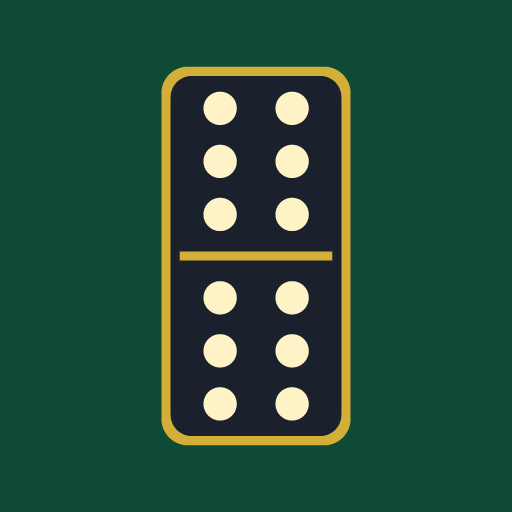
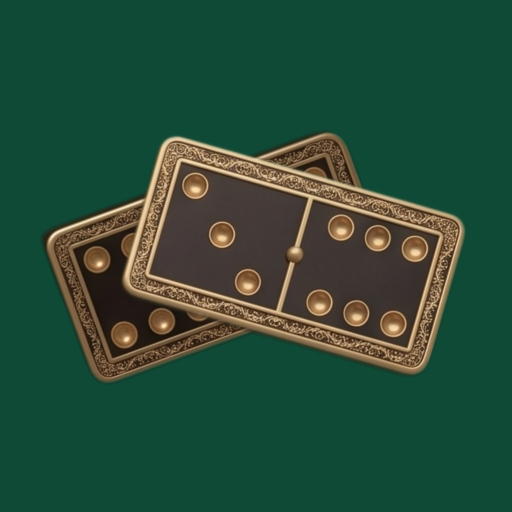
La ficha arrastrada usa la pinta elegida, y el icono son las dos fichas
Al arrastrar salia la ficha clasica aunque la mano fuera de hueso: la
vista previa del arrastre no usa Tile, se dibuja con su propia etiqueta
en Hand.jsx, y ahi la ruta estaba escrita a mano. Comprobado simulando
el gesto.

El icono de la app pasa a ser las dos fichas cruzadas del logo, leyendo
las imagenes de verdad y girandolas con los mismos angulos, en vez de
una sola ficha dibujada con circulos. Para eso el script aprendio a leer
PNG ademas de escribirlos, sin dependencias.

El favicon de la pestana se queda con una sola ficha: a 16 pixeles dos
fichas cruzadas no se distinguen.

diff --git a/frontend/src/components/game/Hand.jsx b/frontend/src/components/game/Hand.jsx
@@ -1,5 +1,6 @@
 import { useRef, useState, useEffect } from 'react';
 import Tile from './Tile.jsx';
+import { useCarpetaDeFichas, VERSION_FICHAS } from './MesaTheme.jsx';
 
 export default function Hand({
   tiles,
@@ -12,6 +13,12 @@ export default function Hand({
   onDragUpdate,
   onDragEnd
 }) {
+  // La ficha que se arrastra tambien tiene que salir con la pinta elegida. Se
+  // dibuja aparte de `Tile`, con su propia etiqueta de imagen, y por eso se
+  // habia quedado con la ruta vieja fija: al arrastrar aparecia la clasica
+  // aunque la mano fuera de hueso.
+  const carpeta = useCarpetaDeFichas();
+
   const handRef = useRef(null);
 
   // Cleanup & window event handlers for active dragging
@@ -122,7 +129,7 @@ export default function Hand({
       {/* Vista previa de arrastre flotante: solo se muestra si NO está imantada a un imán */}
       {draggedTile && !draggedTile.isSnapped && (
         <img
-          src={`/tiles/tile_${Math.min(draggedTile.tile[0], draggedTile.tile[1])}_${Math.max(draggedTile.tile[0], draggedTile.tile[1])}.png`}
+          src={`${carpeta}/tile_${Math.min(draggedTile.tile[0], draggedTile.tile[1])}_${Math.max(draggedTile.tile[0], draggedTile.tile[1])}.png?v=${VERSION_FICHAS}`}
           alt=""
           style={{
             position: 'fixed',

diff --git a/contexto/README.md b/contexto/README.md
@@ -4669,3 +4669,40 @@ ojo (26) que estaba a un pelo del real (24) se llevo por delante todas las ficha
 Los archivos se llaman igual que antes, asi que el navegador se quedaba con las feas
 guardadas. Las direcciones llevan ahora un numero de version (`?v=2`) que lo obliga a
 pedirlas de nuevo. Se sube cada vez que cambie el dibujo sin cambiar el nombre.
+
+---
+
+## 107. La ficha arrastrada, y el icono de la app
+
+Dos cosas que reporto Jonathan con capturas.
+
+### La ficha que se arrastra salia con la pinta vieja
+
+La mano y la mesa se veian de hueso, pero **la ficha que llevabas en el dedo salia clasica**.
+
+La causa: la vista previa del arrastre no usa `Tile`, se dibuja con su propia etiqueta de
+imagen en `Hand.jsx`, y ahi la ruta habia quedado escrita a mano (`/tiles/...`). Cuando las
+pintas pasaron a ser carpetas, esa se quedo apuntando a la vieja.
+
+Comprobado simulando el arrastre: ahora pide `/tiles-hueso/tile_2_6.png`.
+
+**La leccion:** cuando algo se dibuja "por fuera" del componente que le corresponde, se
+queda atras en el primer cambio. Vale la pena buscar rutas escritas a mano cada vez que algo
+pasa a ser configurable.
+
+### El icono de la app: las dos fichas del logo
+
+Estaba una sola ficha, dibujada con circulos por codigo. Jonathan lo vio instalado en su
+telefono y pidio el del logo: *"pon el que hicimos, que esta brutal, el de las 2 fichas"*.
+
+Ahora el icono **lee las fichas de verdad** de `public/tiles/` (la 6-6 y la 3-6, las mismas
+del logo) y las gira con los mismos angulos. Asi el icono y la marca son la misma cosa y no
+dos dibujos parecidos.
+
+Para eso el script aprendio a **leer** PNG, no solo a escribirlos: unos ochenta renglones
+con `zlib`, sin dependencias, igual que el que ya escribia. Y a girar una imagen recorriendo
+el destino y preguntando de donde sale cada pixel; hacerlo al reves deja agujeros, porque al
+girar dos pixeles de origen caen en el mismo de destino.
+
+**El favicon de la pestaña se queda como esta**, con una sola ficha: a 16 pixeles, dos
+fichas cruzadas no se distinguen.
